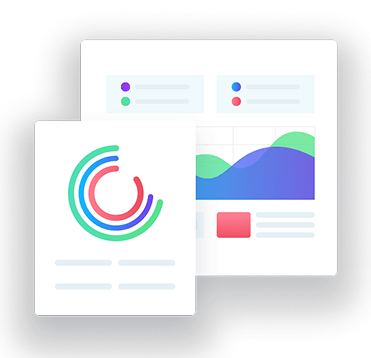
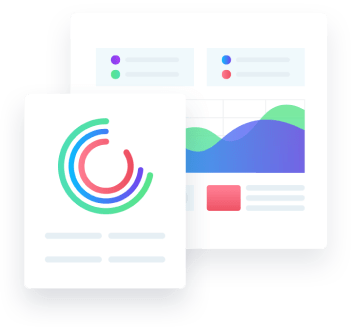
fix promo section

diff --git a/index.html b/index.html
@@ -40,10 +40,10 @@
         <li class="header-register-item"><button class="header-register-btn sign-up" type="button">Sign Up</button></li>
       </ul>
       <button class="burger-btn" type="button" aria-label="Open menu">
-      <svg class="burger-icon" width="29" height="32">
-        <use href="./images/icons.svg#icon-burger"></use>
-      </svg>
-    </button>
+        <svg class="burger-icon" width="29" height="32">
+          <use href="./images/icons.svg#icon-burger"></use>
+        </svg>
+      </button>
     </div>
   </header>
 
@@ -79,7 +79,7 @@
         <li class="feature-item">
           <div class="feature-img-container bg-green">
             <svg class="feature-item-img" width="18" height="18"><use href="./images/icons.svg#icon-arrow" /></svg>
-            </div>
+          </div>
           <h3 class="feature-item-title">First click tests</h3>
           <p class="feature-item-desc">While most people enjoy casino gambling,</p>
         </li>
@@ -100,7 +100,7 @@
         <li class="feature-item">
           <div class="feature-img-container bg-red">
             <svg class="feature-item-img" width="18" height="18"><use href="./images/icons.svg#icon-send-clock" /></svg>
-            </div>
+          </div>
           <h3 class="feature-item-title">Five second tests</h3>
           <p class="feature-item-desc">Personal choices and the overall personality of the person.</p>
         </li>
@@ -110,94 +110,94 @@
   </section>
   <!-- #endregion -->
 
-    <!-- #region Section 3 -->
-    <section class="managment">
-      <div class="managment-container container">
-        <div class="managment-content">
-          <h2 class="managment-title">
-            Effortless Validation for
-            <span class="managment-acent"> Management </span>
-          </h2>
-          <p class="managment-text">
-            The Myspace page defines the individual, his or her characteristics,
-            traits, personal choices and the overall personality of the person.
-          </p>
-          <ul class="managment-list">
-            <li class="managment-list-item">
-              <h3 class="managment-item-title">Accessory makers</h3>
-              <p class="managment-item-text">
-                While most people enjoy casino gambling, sports betting, lottery
-                and bingo playing for the fun
-              </p>
-            </li>
-            <li class="managment-list-item">
-              <h3 class="managment-item-title">Alterationists</h3>
-              <p class="managment-item-text">
-                If you are looking for a new way to promote your business that
-                won’t cost you more money
-              </p>
-            </li>
-          </ul>
-        </div>
-        <div class="menagment-image">
-          <img src="./images/management-img.png" alt="management-img" />
-        </div>
+  <!-- #region Section 3 -->
+  <section class="managment">
+    <div class="managment-container container">
+      <div class="managment-content">
+        <h2 class="managment-title">
+          Effortless Validation for
+          <span class="managment-acent"> Management </span>
+        </h2>
+        <p class="managment-text">
+          The Myspace page defines the individual, his or her characteristics,
+          traits, personal choices and the overall personality of the person.
+        </p>
+        <ul class="managment-list">
+          <li class="managment-list-item">
+            <h3 class="managment-item-title">Accessory makers</h3>
+            <p class="managment-item-text">
+              While most people enjoy casino gambling, sports betting, lottery
+              and bingo playing for the fun
+            </p>
+          </li>
+          <li class="managment-list-item">
+            <h3 class="managment-item-title">Alterationists</h3>
+            <p class="managment-item-text">
+              If you are looking for a new way to promote your business that
+              won’t cost you more money
+            </p>
+          </li>
+        </ul>
       </div>
-    </section>
-    <!-- #endregion -->
+      <div class="menagment-image">
+        <img src="./images/management-img.png" alt="management-img" />
+      </div>
+    </div>
+  </section>
+  <!-- #endregion -->
 
-    <!-- #region Section 4 -->
-    <section class="support">
-      <div class="support-container container">
-        <div class="support-image">
-          <img src="./images/support-img.png" alt="3" />
-        </div>
-        <div class="support-content">
-          <h2 class="support-title">
-            Easier decision making for
-            <span class="support-acent"> Customer Support</span>
-          </h2>
-          <p class="support-text">
-            The Myspace page defines the individual, his or her characteristics,
-            traits, personal choices and the overall personality of the person.
-          </p>
-          <ul class="support-list">
-            <li class="support-list-item">
-              <div class="support-icon-container">
-                <svg class="support-item-icon" width="16" height="12">
-                  <use href="./images/icons.svg#icon-tick"></use>
-                </svg>
-              </div>
-              <p class="support-item-text">
-                Never worry about overpaying for your energy again.
-              </p>
-            </li>
-            <li class="support-list-item">
-              <div class="support-icon-container">
-                <svg class="support-item-icon" width="16" height="12">
-                  <use href="./images/icons.svg#icon-tick"></use>
-                </svg>
-              </div>
-              <p class="support-item-text">
-                We will only switch you to energy companies that we trust and
-                will treat you right
-              </p>
-            </li>
-            <li class="support-list-item">
-              <div class="support-icon-container">
-                <svg class="support-item-icon" width="16" height="12">
-                  <use href="./images/icons.svg#icon-tick"></use>
-                </svg>
-              </div>
-              <p class="support-item-text">
-                We track the markets daily and know where the savings are.
-              </p>
-            </li>
-          </ul>
-        </div>
+  <!-- #region Section 4 -->
+  <section class="support">
+    <div class="support-container container">
+      <div class="support-image">
+        <img src="./images/support-img.png" alt="3" />
       </div>
-    </section>
-    <!-- #endregion -->
+      <div class="support-content">
+        <h2 class="support-title">
+          Easier decision making for
+          <span class="support-acent"> Customer Support</span>
+        </h2>
+        <p class="support-text">
+          The Myspace page defines the individual, his or her characteristics,
+          traits, personal choices and the overall personality of the person.
+        </p>
+        <ul class="support-list">
+          <li class="support-list-item">
+            <div class="support-icon-container">
+              <svg class="support-item-icon" width="16" height="12">
+                <use href="./images/icons.svg#icon-tick"></use>
+              </svg>
+            </div>
+            <p class="support-item-text">
+              Never worry about overpaying for your energy again.
+            </p>
+          </li>
+          <li class="support-list-item">
+            <div class="support-icon-container">
+              <svg class="support-item-icon" width="16" height="12">
+                <use href="./images/icons.svg#icon-tick"></use>
+              </svg>
+            </div>
+            <p class="support-item-text">
+              We will only switch you to energy companies that we trust and
+              will treat you right
+            </p>
+          </li>
+          <li class="support-list-item">
+            <div class="support-icon-container">
+              <svg class="support-item-icon" width="16" height="12">
+                <use href="./images/icons.svg#icon-tick"></use>
+              </svg>
+            </div>
+            <p class="support-item-text">
+              We track the markets daily and know where the savings are.
+            </p>
+          </li>
+        </ul>
+      </div>
+    </div>
+  </section>
+  <!-- #endregion -->
 
   <!-- #region Section 5 -->
   <section class="collaboration">
@@ -276,9 +276,9 @@
       </p>
       <ul class="strategy-list">
         <li class="strategy-list-item">
-          <img class="strategy-list-img" 
-          srcset="./images/section-strategy/w1-min.jpg 1x, ./images/section-strategy/w12x-min.jpg 2x" 
-          src="./images/section-strategy/w1-min.jpg" alt="image-bg" />
+          <img class="strategy-list-img"
+            srcset="./images/section-strategy/w1-min.jpg 1x, ./images/section-strategy/w12x-min.jpg 2x"
+            src="./images/section-strategy/w1-min.jpg" alt="image-bg" />
           <div class="strategy-list-item-box">
             <p class="strategy-list-text">
               By <span class="strategy-list-text-part">Wahid Ari</span> | 03
@@ -290,9 +290,9 @@
           </div>
         </li>
         <li class="strategy-list-item">
-          <img class="strategy-list-img" 
-          srcset="./images/section-strategy/w2-min.jpg 1x, ./images/section-strategy/w22x-min.jpg 2x" 
-          src="./images/section-strategy/w2-min.jpg" alt="image-bg" />
+          <img class="strategy-list-img"
+            srcset="./images/section-strategy/w2-min.jpg 1x, ./images/section-strategy/w22x-min.jpg 2x"
+            src="./images/section-strategy/w2-min.jpg" alt="image-bg" />
           <div class="strategy-list-item-box">
             <p class="strategy-list-text">
               By <span class="strategy-list-text-part">Wahid Ari</span> | 03
@@ -304,9 +304,9 @@
           </div>
         </li>
         <li class="strategy-list-item">
-          <img class="strategy-list-img" 
-          srcset="./images/section-strategy/w3-min.jpg 1x, ./images/section-strategy/w32x-min.jpg 2x" 
-          src="./images/section-strategy/w3-min.jpg" alt="image-bg" />
+          <img class="strategy-list-img"
+            srcset="./images/section-strategy/w3-min.jpg 1x, ./images/section-strategy/w32x-min.jpg 2x"
+            src="./images/section-strategy/w3-min.jpg" alt="image-bg" />
           <div class="strategy-list-item-box">
             <p class="strategy-list-text">
               By <span class="strategy-list-text-part">Wahid Ari</span> | 03
@@ -537,6 +537,7 @@
   <!-- #region Section 10 Promo -->
   <section class="promo">
     <div class="container promo-container">
+      <div class="promo-box">
         <div class="promo-text-btn">
           <h2 class="promo-title">
             Join 100 Compannies who boost their business with Product
@@ -544,7 +545,8 @@
           <button class="promo-btn" type="button">Get This</button>
         </div>
         <img srcset="./images/section-10/screen-min.png 1x,./images/section-10/screen@2x-min.png 2x"
-        src="./images/section-10/screen-min.png" alt="screen" />
+          src="./images/section-10/screen-min.png" alt="screen" class="promo-img" />
+      </div>
     </div>
   </section>
   <!-- #endregion -->
@@ -588,7 +590,7 @@
         </ul>
       </div>
       <div class="footer-input-box">
-        <h3 class="footer-form-title">knowing you're always on the best energy deal.</h3>     
+        <h3 class="footer-form-title">knowing you're always on the best energy deal.</h3>
         <div class="form-wrapper">
           <input class="footer-input" type="tel" name="phone" placeholder="Enter your phone number" />
           <img class="footer-input-icon" width="16px" height="16px" src="./images/mobile-screen.svg" alt="mobile icon"/>
@@ -598,7 +600,7 @@
       </div>
       <p class="footer-copyright">Made With Love By Figmaland All Right Reserved</p>
     </div>
-    
+
   </footer>
   <!-- #endregion -->
 

diff --git a/css/styles.css b/css/styles.css
@@ -141,6 +141,7 @@ h1 {
 
   margin-bottom: 37px;
 }
+
 .feature-item {
   width: 100%;
   display: flex;
@@ -157,6 +158,7 @@ h1 {
   align-items: center;
   margin-bottom: 24px;
 }
+
 .bg-green {
   background-color: var(--color-green);
 }
@@ -229,6 +231,7 @@ h1 {
     text-align: left;
   }
 }
+
 /* #endregion */
 
 /* #region section 3 management */
@@ -1049,7 +1052,7 @@ h1 {
 
 /* #region section 10 */
 
-.promo-container {
+.promo-box {
   display: flex;
   flex-direction: column;
   align-items: center;
@@ -1062,14 +1065,15 @@ h1 {
   border-radius: 32px;
   margin: 0 auto;
   background-color: var(--color-green);
-  padding: 16px 22px;
-  gap: 32px;
+  padding: 17px 10px 0px 10px;
+  /* gap: 32px; */
 }
 
 .promo-text-btn {
   display: flex;
   flex-direction: column;
   align-items: center;
+  margin-bottom: 32px;
 }
 
 .promo-title {
@@ -1095,7 +1099,7 @@ h1 {
 }
 
 @media screen and (min-width: 1150px) {
-  .promo-container {
+  .promo-box {
     max-width: 1150px;
     width: 100%;
     margin: 0 auto;
